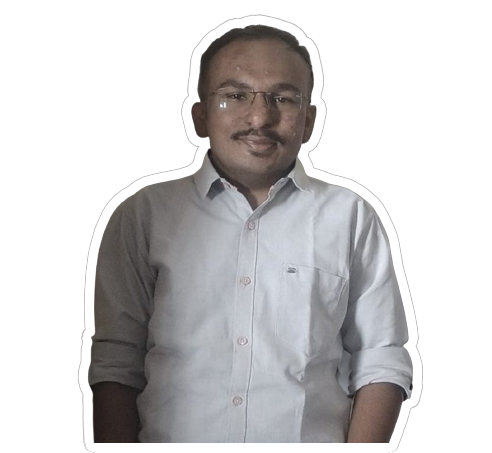
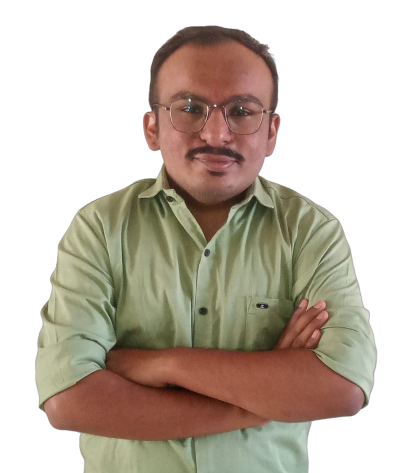
image updated

diff --git a/src/components/AboutMeSec/aboutmesec.css b/src/components/AboutMeSec/aboutmesec.css
@@ -104,10 +104,9 @@
 #abtMeImg3 {
   position: absolute;
   z-index: 1;
-  left: 550px;
+  right: 0;
   top: 38px;
   flex-shrink: 0;
-  scale: 0.8;
 }
 
 #abtMeImg4 {

diff --git a/src/components/HeroSec/herosec.css b/src/components/HeroSec/herosec.css
@@ -84,7 +84,6 @@
 }
 
 .heroImg {
-  transform: scale(0.85);
   flex-shrink: 0;
 }
 
